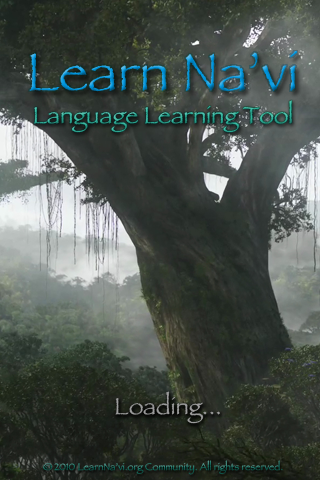
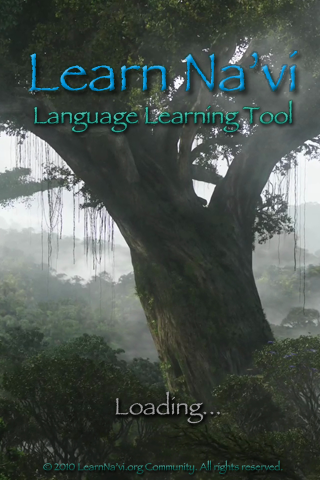
Added 2x High Res images, Updated the Entry View GUI to look better.
git-svn-id: http://learn-navi.googlecode.com/svn/trunk@166 4dd590c8-5356-56d4-01ec-4945be1ffd85

diff --git a/iPhone OS/AboutDisclaimerViewController.m b/iPhone OS/AboutDisclaimerViewController.m
@@ -11,7 +11,7 @@
 
 @implementation AboutDisclaimerViewController
 
-@synthesize contentText, contentTextShadow, bg_image;
+@synthesize contentText, contentTextShadow, bg_image, versionText;
 
 
  // The designated initializer.  Override if you create the controller programmatically and want to perform customization that is not appropriate for viewDidLoad.
@@ -40,8 +40,11 @@
     [super viewDidLoad];
 	if(type){
 		[self setupAbout];
+		[[self versionText] setText:[self versionString]];
+		[[self versionText] setHidden:NO];
 	} else {
 		[self setupDisclaimer];
+		[[self versionText] setHidden:YES];
 	}
 }
 
@@ -81,8 +84,8 @@
 	NSString *path = [[NSBundle mainBundle] pathForResource:@"AboutBackground" ofType:@"png"];
 	[bg_image setImage:[UIImage imageWithContentsOfFile:path]];
 	NSLog(@"Path: %@",path);
-	[contentText setText:@"Learn Na'vi was created by Michael Gillogly aka \"Seze\" from the Learn Na'vi online community.  It was created for the online community as a reference and learning tool.  Special thanks goes to Taronyu and Tuiq for providing the dictionary content and all the members from the Learn Na'vi online community that helped with the development process..."];
-	[contentTextShadow setText:@"Learn Na'vi was created by Michael Gillogly aka \"Seze\" from the Learn Na'vi online community.  It was created for the online community as a reference and learning tool.  Special thanks goes to Taronyu and Tuiq for providing the dictionary content and all the members from the Learn Na'vi online community that helped with the development process..."];
+	[contentText setText:@"Learn Na'vi was created by Seze Ngrr from the Learn Na'vi online community.  It was created for the online community as a reference and learning tool.  Special thanks goes to Taronyu and Tuiq for providing the dictionary content and all the members from the Learn Na'vi online community that helped with the development process..."];
+	[contentTextShadow setText:@"Learn Na'vi was created by Seze Ngrr from the Learn Na'vi online community.  It was created for the online community as a reference and learning tool.  Special thanks goes to Taronyu and Tuiq for providing the dictionary content and all the members from the Learn Na'vi online community that helped with the development process..."];
 }
 
 - (void)setupDisclaimer {
@@ -94,5 +97,27 @@
 	[contentTextShadow setText:@"The Na'vi language was created by Paul Frommer. Much of the information displayed in this App was written by Prof. Frommer and is presented here for educational purposes only. Learn Na'vi is not affiliated with the official Avatar website, James Cameron, or the Twentieth Century-Fox Film Corporation. All trademarks and servicemarks are the properties of their respective owners."];
 }
 
+- (NSString *)bundleVersionNumber {
+	return [[[NSBundle mainBundle] infoDictionary]
+			valueForKey:@"CFBundleVersion"];
+}
+
+- (NSString *)bundleShortVersionString {
+	return [[[NSBundle mainBundle] infoDictionary]
+			valueForKey:@"SVN_Version"];
+}
+
+- (NSString *)versionString {
+	//NSUserDefaults *prefs = [NSUserDefaults standardUserDefaults];
+	//NSString *dictionary_version = [prefs stringForKey:@"database_version"];
+	//NSString *dictionary_preupdate_version = [prefs stringForKey:@"database_pre-update_version"];
+	//if (dictionary_preupdate_version == nil) {
+	//	dictionary_preupdate_version = @"0";
+	//	[prefs setObject:@"0" forKey:@"database_pre-update_version"];
+	//}
+	//return [NSString stringWithFormat:@"Version %@ (%@-%@-%@)",[self bundleVersionNumber], [self bundleShortVersionString], dictionary_version, dictionary_preupdate_version];
+	return [NSString stringWithFormat:@"Version %@ (%@)",[self bundleVersionNumber], [self bundleShortVersionString]];//, [self bundleShortVersionString], dictionary_version, dictionary_preupdate_version];
+	
+}
 
 @end

diff --git a/iPhone OS/AboutDisclaimerViewController.h b/iPhone OS/AboutDisclaimerViewController.h
@@ -13,15 +13,21 @@
 	UITextView *contentText;
 	UITextView *contentTextShadow;
 	UIImageView *bg_image;
+	UILabel *versionText;
 	BOOL type;
 }
 
 @property (nonatomic, retain) IBOutlet UITextView *contentText, *contentTextShadow;
 @property (nonatomic, retain) IBOutlet UIImageView *bg_image;
+@property (nonatomic, retain) IBOutlet UILabel *versionText;
 
 - (id)initWithNibName:(NSString *)nibNameOrNil bundle:(NSBundle *)nibBundleOrNil type:(BOOL)contentType;
 - (IBAction)doneReading:(id)sender;
 - (void)setupAbout;
 - (void)setupDisclaimer;
+
+- (NSString *)versionString;
+- (NSString *)bundleShortVersionString;
+- (NSString *)bundleVersionNumber;
 
 @end

diff --git a/iPhone OS/DictionaryEntryViewController.m b/iPhone OS/DictionaryEntryViewController.m
@@ -42,15 +42,15 @@
 - (void)viewWillAppear:(BOOL)animated {
     [super viewWillAppear:animated];
 	//[[self navigationItem] setTitle:@"Entry"];
-	if(mode){
+	//if(mode){
 		[definition setText:[self.entry english_definition]];
 		[term setText:[self.entry navi]];
 		
-	} else {
-		[definition setText:[self.entry navi]];
-		[term setText:[self.entry english_definition]];
+	//} else {
+		//[definition setText:[self.entry navi]];
+		//[term setText:[self.entry english_definition]];
 		
-	}
+	//}
 	
 	
 	[ipa setText:[self.entry ipa]];

diff --git a/iPhone OS/Classes/AppViewController.m b/iPhone OS/Classes/AppViewController.m
@@ -49,7 +49,7 @@
 	//Update the App version string
 	NSLog(@"%@", [self versionString]);
 	[betaText setText:[self versionString]];
-
+	[betaText setHidden:YES];
 }
 
 
